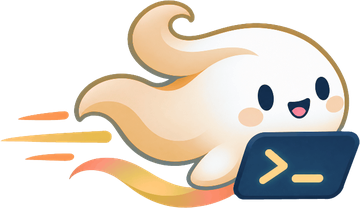
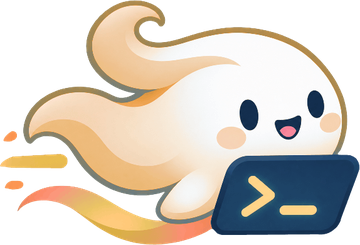
fix(brand): enlarge speed artwork and balance watermark spacing

diff --git a/lib/design/brand.dart b/lib/design/brand.dart
@@ -46,11 +46,19 @@ abstract final class BrandRotation {
 }
 
 class _Art extends StatelessWidget {
-  const _Art(this.asset, {super.key, required this.width, this.height, required this.opacity});
+  const _Art(
+    this.asset, {
+    super.key,
+    required this.width,
+    this.height,
+    required this.opacity,
+    this.alignment = Alignment.center,
+  });
 
   final String asset;
   final double width, opacity;
   final double? height;
+  final Alignment alignment;
 
   /// The same decoded size the widget uses, so a precached image is the one shown.
   static ImageProvider provider(BuildContext context, String asset, double width) =>
@@ -63,15 +71,23 @@ class _Art extends StatelessWidget {
     height: height,
     opacity: AlwaysStoppedAnimation(opacity),
     fit: BoxFit.contain,
+    alignment: alignment,
     excludeFromSemantics: true,
   );
 }
 
 class _HomePose extends StatefulWidget {
-  const _HomePose({required this.width, required this.height, required this.opacity, required this.active});
+  const _HomePose({
+    required this.width,
+    required this.height,
+    required this.opacity,
+    required this.active,
+    this.alignment = Alignment.center,
+  });
 
   final double width, height, opacity;
   final bool active;
+  final Alignment alignment;
 
   @override
   State<_HomePose> createState() => _HomePoseState();
@@ -143,6 +159,7 @@ class _HomePoseState extends State<_HomePose> {
         width: widget.width,
         height: widget.height,
         opacity: widget.opacity,
+        alignment: widget.alignment,
       ),
     ),
   );
@@ -302,6 +319,7 @@ class BrandWatermark extends StatelessWidget {
           height: height,
           opacity: _decorOpacity(palette.brightness, light: .12, dark: .09),
           active: active,
+          alignment: Alignment.bottomRight,
         ),
       ),
     );

diff --git a/lib/features/hosts/presentation/vault_page.dart b/lib/features/hosts/presentation/vault_page.dart
@@ -320,7 +320,7 @@ class _VaultPageState extends ConsumerState<VaultPage> {
                         children: [
                           if (spare)
                             Positioned(
-                              right: 0,
+                              right: Space.lg,
                               bottom: Space.lg,
                               child: BrandWatermark(active: widget.active),
                             ),

diff --git a/tool/import_brand.py b/tool/import_brand.py
@@ -89,13 +89,22 @@ def dark_tokens(tokens, theme):
     }
 
 
-def export_png(source, destination, size, crop=False):
+def export_png(source, destination, size, crop=False, compact_wind=False):
     image = Image.open(source).convert("RGBA")
     if crop:
         bounds = image.getchannel("A").getbbox()
         if bounds is None:
             raise ValueError(f"Empty image: {source}")
         image = image.crop(bounds)
+    if compact_wind:
+        # Shorten only the detached leading wind strokes; keep the mascot and terminal intact.
+        # The tighter composition makes the subject larger in the shared runtime image frame.
+        split, lead = round(image.width * .18), round(image.width * .03)
+        compact = Image.new("RGBA", (image.width - split + lead, image.height))
+        strokes = image.crop((0, 0, split, image.height)).resize((lead, image.height), Image.Resampling.LANCZOS)
+        compact.paste(strokes, (0, 0))
+        compact.paste(image.crop((split, 0, image.width, image.height)), (lead, 0))
+        image = compact
     image.thumbnail(size, Image.Resampling.LANCZOS)
     image.save(destination, optimize=True)
 
@@ -111,10 +120,17 @@ def main():
     parser = argparse.ArgumentParser(description=__doc__)
     parser.add_argument("repository", type=Path)
     parser.add_argument("--pack", type=Path)
+    parser.add_argument("--only-speed", action="store_true", help="Re-export only the six speed pose PNGs")
     args = parser.parse_args()
     root = args.repository.resolve()
     pack = (args.pack or root / "Sshairy-Brand-Asset-Pack").resolve()
     brand = root / "assets/brand"
+    if args.only_speed:
+        for key, folder in THEMES:
+            export_png(pack / folder / "poses/speed.png", brand / key / "pose-speed.png",
+                       (360, 360), crop=True, compact_wind=True)
+        print("Imported six speed poses with a tighter wind composition.")
+        return
     lines = [
         "// Generated by tool/import_brand.py from the author's asset pack; do not edit.",
         "part of 'brand_palette.dart';", "",
@@ -150,7 +166,7 @@ def main():
             "sparkle-dark.png": ("dark/decorations/sparkle.png", (64, 64), True),
             "wind-light.png": ("decorations/wind-lines.png", (160, 160), True),
             "wind-dark.png": ("dark/decorations/wind-lines.png", (160, 160), True),
-            # Poses are shared by light and dark; the host library rotates the 360 px ones at up to 176 logical px.
+            # Poses are shared by light and dark; the host library uses the same frame for every pose.
             "pose-default.png": ("poses/default.png", (360, 360), True),
             "pose-happy.png": ("poses/happy.png", (360, 360), True),
             "pose-success.png": ("poses/success.png", (360, 360), True),
@@ -162,7 +178,7 @@ def main():
             "pose-sftp-transfer.png": ("poses/sftp-transfer.png", (240, 240), True),
         }
         for name, (relative, size, crop) in assets.items():
-            export_png(source / relative, output / name, size, crop)
+            export_png(source / relative, output / name, size, crop, compact_wind=name == "pose-speed.png")
         icon_output = root / "windows/runner/resources/brand"
         icon_output.mkdir(parents=True, exist_ok=True)
         icon_sources = {"light": "app-icons/app-icon-1024.png", "dark": "dark/app-icons/app-icon-1024.png"}

diff --git a/docs/ROADMAP.md b/docs/ROADMAP.md
@@ -68,6 +68,7 @@ D-02 Windows 后端（已验证）：flutter_secure_storage_windows 4.2.2 把秘
 - [x] 主机库动作轮换（2026-11-07）：空状态与水印在默认、开心、成功、疾速、睡在云上之间随机，每次回到主机库立即换一个（不淡出没人看见的旧图），停留时每 45 秒预解码后以 1.2 秒淡入淡出切换；主机库不可见时不计时，减少动态效果时只在显示时随机。思考（AI）动作留给 AI。`test/brand_theme_test.dart` 覆盖轮换、隐藏不换、返回即换、减少动态效果与全部动作资源存在；真实窗口淡入淡出未截图检查
 - [x] 强调色、窗口按钮与退出（2026-11-07）：冰蓝薄荷浅色主色由湖青改为在原始 `#2E6EF7` 上微调的 `#2C71E8`，填充按钮用该色配白字；最小化/最大化/关闭为 36×28 圆角悬浮，间距 2，关闭右侧留 8。确认退出后窗口先隐藏，取消、保存和断开在窗口消失后进行，失败时窗口重新出现；Windows runner 在消息循环结束后也先隐藏窗口再拆引擎。顺序有 widget 测试（`test/app_lifecycle_test.dart`），实测见 TESTING §6
 - [x] 传输下拉浮层（2026-11-07）：从顶栏传输按钮下方展开，宽 440 px、最高 520 px，小窗口内收缩并滚动；Esc/点外部关闭不取消任务。队列操作及边界布局有 widget 回归测试，真实窗口空队列布局已检查
+- [x] 主机库姿态大小与留白（2026-11-08）：六主题 speed PNG 收紧风线构图，让主体在原有显示框内约大 18%，不增加运行时专属缩放；右下水印图像贴右下对齐，页面右/下各留 32 logical px。品牌/工作区 13 项相关测试通过，六主题素材预览已检查；真实窗口待作者验收
 - [x] 界面缩放（2026-11-08）：外观设置 80%–150%、即时生效并持久化，字号仍单独调整；控件/浮层/指针与 Windows 最大化命中范围、切换保留导航/草稿、最小窗口 150% 有组件测试；真实窗口与不同 DPI 待亲测
 - [ ] 窗口外壳与标签栏（E-11 结果决定标题栏方案）
 - [ ] 配置存储：单写队列、revision、迁移、备份（D-01）：单写队列、读回验证、revision/expectedRevision、损坏与未来版本的类型化错误和写保护、快照（最近 10 份、5 分钟间隔、50 MiB）、损坏文件经校验快照恢复有单元测试（`test/json_file_test.dart`）；各配置文件的领域校验回调已接入，启动时读取失败显示保留原文件的修复页（`lib/app/configuration.dart`）。逐版迁移、启动恢复入口和跨进程写锁已实现并有测试（`test/json_file_test.dart`、`test/configuration_recovery_test.dart`），恢复页未在真实窗口运行，见 SECURITY §4“当前实现”和 CONFIG_RECOVERY
@@ -197,3 +198,4 @@ D-02 Windows 后端（已验证）：flutter_secure_storage_windows 4.2.2 把秘
 | 2026-11-08 | 开发助手 | 修复内存保留点：传输历史在内存/磁盘同步裁剪并释放完成批次策略；目录树按 128 目录/8192 子项目标回收，历史各 100 项；文件页隐藏 30 秒释放浏览列表与 SFTP、返回恢复，隐藏动画停止；图片闲置 LRU 为 16 MiB/128，隐藏/内存压力清理。资源与恢复有构造测试，本轮全量 427 项、analyze、imports 通过 | 原 Release 进程只读采样工作集 330.3 MiB/私有提交 282.3 MiB，无同条件前后测量，不宣称固定降幅；保留终端回滚、后台任务和大目录完整内容。详见 MEMORY_USAGE |
 | 2026-11-08 | 开发助手 | 外观设置新增持久化界面缩放（80%–150%，默认 100%），按钮/图标/间距/面板/文字随虚拟视口缩放；菜单、指针锚点与 Windows 最大化命中区同步换算，切换保留导航和草稿；导入来源/指引在高缩放小窗口可滚动。缩放几何、150% 最小窗口设置/导入、保存重读与原生命中区有回归，全量 427 项、analyze、imports 通过 | 当前字号仍独立调节基准值；没有在真实窗口亲测缩放和实际 SFTP 闲置恢复；下一步原目录 Release 重建与包校验 |
 | 2026-11-08 | 开发助手 | 上述四点独立提交（32995e4、6b2f11d、e349853、2a105a1），全量 427 项通过；原 Release 重建 138 秒成功，新包 `sshairy-0.1.0+1-windows-x64-20261108-111916-625.zip`（19.84 MiB，完整目录41.12MiB），146 文件/120 PNG/8 SVG 与 Release及源资源一致，CRC/SHA256 通过，106 依赖许可证清单 | 构建前确认无运行实例；未创建额外修复目录。没有新版本同条件长期内存数据、真实窗口缩放或 SFTP 恢复实测；本地提交未推送 |
+| 2026-11-08 | 开发助手 | 按作者反馈直接调整六主题 speed 素材：缩短独立风线，保留角色/终端，在相同框内主体约大 18%；导入工具支持单独重导，原始素材包保留。水印图像贴右下对齐，右/下各 32 logical px。品牌/工作区相关 13 项测试通过，六主题素材预览已检查 | 无运行时按 speed 专属缩放；真实窗口待作者验收。此时 Release/ZIP 尚未重建 |

diff --git a/docs/BRAND.md b/docs/BRAND.md
@@ -14,6 +14,7 @@
 - 应用内标记、空状态角色与品牌组合图按主题和明暗选择对应素材。小尺寸优先使用紧凑图形，避免把整幅横版 Logo 塞进图标栏。
 - 设置中用六张同结构的小型主题预览，展示背景、面板和强调色；选择后立即生效，沿用原有的明暗切换。
 - 主机库空状态可使用一幅半透明角色与低调的云、风线、星光；空白区与空列表可用素材包 poses 中与场景对应的动作（安全、专注编码、已连接、SFTP 传输），半透明、小尺寸，不和内容重叠；主机库的空状态与水印在默认、开心、成功、疾速、睡在云上之间随机并缓慢淡入淡出轮换。终端内容、文件列表、数据图表及认证/安全确认不叠加角色、水印或装饰；有数据时让内容占主导。
+- 疾速（speed）动作通过素材导出时缩短左侧独立风线，收紧构图，让角色在相同显示框中约放大 18%，完整保留角色和终端；运行时代码不按姿态额外放大。`tool/import_brand.py --only-speed` 可只重导六主题的该动作，全量导入也应用相同处理。右下水印以可见图形对齐，右侧与底部留出相同间距，轮换时仍遵守列表避让；不修改原始素材包。
 - 系统安装图标从默认冰蓝薄荷的应用图标导出；应用内 Logo 跟随当前主题。Windows 运行中的窗口/任务栏图标使用十二个主题/明暗 ICO 资源，按有效主题切换；静态 exe 与固定快捷方式保持默认图标。其他平台运行时图标未实现，不宣称跨平台动态换肤。
 - 冰蓝薄荷浅色界面强调色按作者反馈在原始 #2E6EF7 上微调为 #2C71E8（略偏天蓝、略降饱和），湖青 #46B7C8 与整体不协调已弃用；填充按钮直接用该色配白字，交互小字另按背景校正。原始图片不重新着色。
 - 冰蓝薄荷深色按作者反馈改为以中性灰为主、蓝色只做强调（参考 Netcatty 深色）：背景 #121418、侧栏 #181A1F、面板 #1C1F25、浮起 #23262D、边框 #2E323A，文字为冷灰白；主色仍为 #5AB6FF，选中底色为略带蓝的灰 #253244，终端底色 #0F1114。其余五套深色不变。
